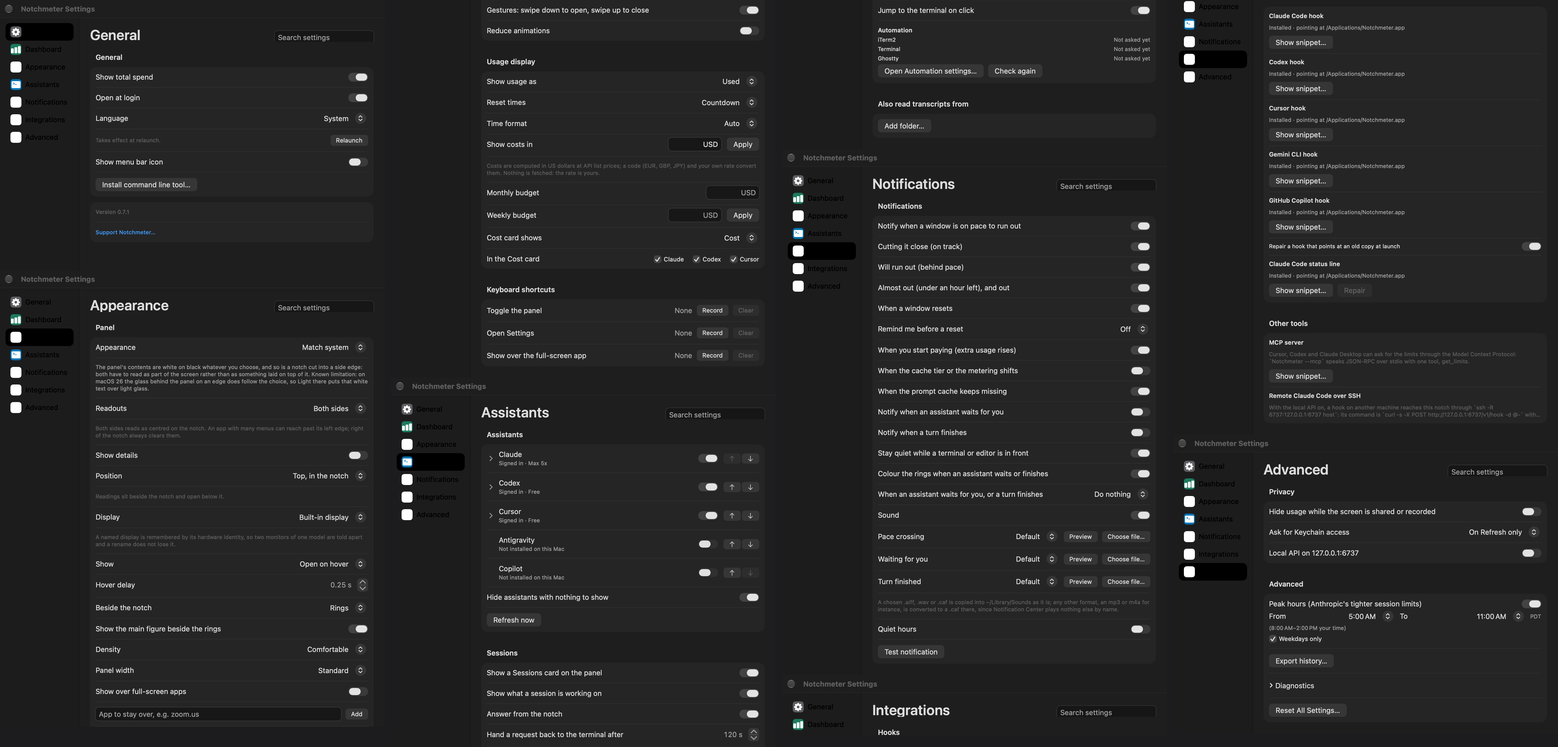
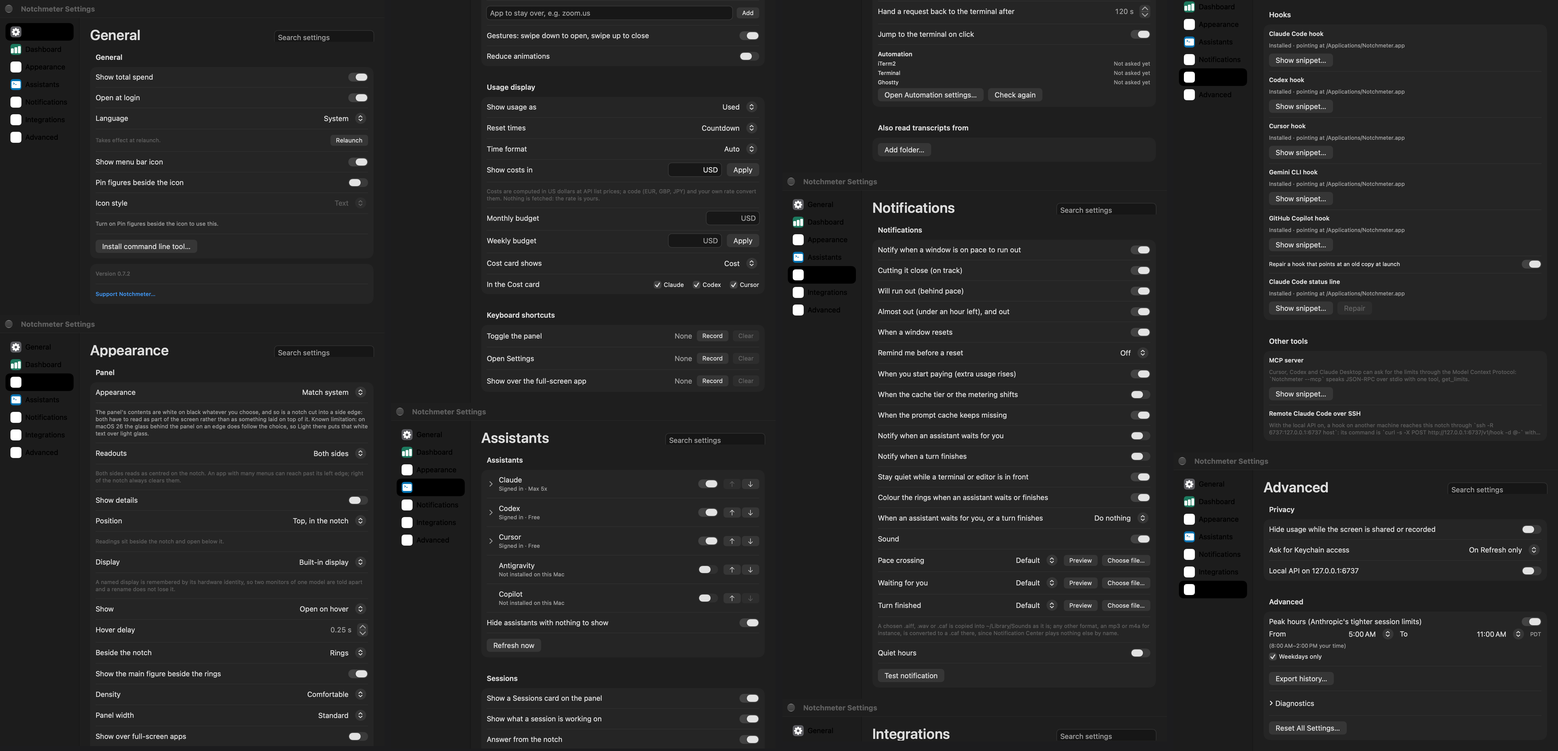
Notchmeter 0.7.2: the jump lands on the session's window (#70)
* Jump a session row to the right Cursor window, and pin the pictures' clock

A click on a Cursor or VS Code session only activated the app: with several
windows it could not say which, and from a background app on macOS 14 the
cooperative activate was often refused, so nothing visibly happened.

- The hook keeps the session's folder (Cursor's first workspace root, else
  cwd) as terminal_workspace, only when the terminal is Cursor or VS Code.
  The jump opens that folder with the running editor, which brings forward
  the window already showing it.
- The plain raise reopens the app through LaunchServices, as a Dock click
  does, instead of NSRunningApplication.activate.
- Cursor's own agent in Cursor shows one chip, not "Cursor Cursor".
- The demo fixtures turn peak hours off, so --render-assets no longer grows
  a peak-hours line when run during the window.

* Say what Cursor 3 does with a folder no editor window has open

* Notchmeter 0.7.2: the jump lands on the session's window

* Empty the fixtures' suite before a render, and reword a release note

A registered default is a fallback: a peakHoursTools value an earlier render
left in the render-assets suite would outrank it and bring the wall clock back
into the pictures. (CodeRabbit on #70.)

* Re-render the Settings picture from an empty suite

The committed one was drawn over values an earlier render left behind: the
menu bar icon was off, hiding two rows, and it said 0.7.1.

---------

diff --git a/Sources/Notchmeter/TerminalJump.swift b/Sources/Notchmeter/TerminalJump.swift
@@ -14,7 +14,8 @@ private let log = Logger(subsystem: "com.amirhackett.notchmeter", category: "jum
 /// (docs/permissions.md); Ghostty's AppleScript names a terminal's tty from 1.4.0 and only its working directory
 /// before, so its script tries the tty and settles for raising the app; kitty and WezTerm take a focus command on
 /// their own socket; a session inside tmux first selects its pane, then raises whichever terminal the most
-/// recent tmux client is attached from; anything else is raised as an app. A session with nothing to go on
+/// recent tmux client is attached from; Cursor and VS Code are handed the session's folder, which they answer by
+/// bringing forward the window that already has it open; anything else is raised as an app. A session with nothing to go on
 /// resolves to `none`, and a session on another Mac is never a jump at all.
 ///
 /// The executor runs one jump at a time on a serial queue, never launches an app that is not running (an
@@ -33,6 +34,9 @@ enum TerminalJump {
         /// A tmux pane to select on its socket, then the terminal the client is attached from, resolved again
         /// from the client's tty (`outer` is the reference with the pane's tty removed).
         case tmux(socket: String, pane: String?, outer: TerminalRef)
+        /// Open the session's folder with a running editor, which raises the window already showing it (Cursor 3
+        /// raises its Agents window for a folder no editor window has open).
+        case openFolder(String, bundleID: String)
         /// Bring the app to the front and nothing more.
         case activate(bundleID: String)
         case none
@@ -44,6 +48,7 @@ enum TerminalJump {
             case .appleScript: "applescript"
             case .command: "command"
             case .tmux: "tmux"
+            case .openFolder: "folder"
             case .activate: "activate"
             case .none: "none"
             }
@@ -81,6 +86,19 @@ enum TerminalJump {
         case "com.anthropic.claudefordesktop": return "Claude"
         default: return nil
         }
+    }
+
+    /// The editors that answer a folder they are asked to open by focusing the window that already has it, and
+    /// open a new one only when none does: VS Code and its forks. These are the only terminals a hook keeps the
+    /// session's folder for (`TerminalRef.workspace`).
+    static let folderEditors: Set<String> = ["com.todesktop.230313mzl4w4u92", "com.microsoft.VSCode", "com.microsoft.VSCodeInsiders"]
+
+    static func opensFolders(_ bundleID: String?) -> Bool { bundleID.map(folderEditors.contains) ?? false }
+
+    /// A folder a jump will open: an absolute path with no parent steps, since it came over the socket.
+    static func validWorkspace(_ path: String?) -> String? {
+        guard let path, path.hasPrefix("/"), !path.split(separator: "/").contains("..") else { return nil }
+        return path
     }
 
     /// Which terminal a reference names, by bundle id first and `TERM_PROGRAM` second.
@@ -126,6 +144,9 @@ enum TerminalJump {
                 return .command(executable: "wezterm", arguments: ["cli", "activate-pane", "--pane-id", pane], activate: BundleID.wezterm)
             }
             return .activate(bundleID: BundleID.wezterm)
+        }
+        if let bundleID = ref.bundleID, opensFolders(bundleID), let folder = validWorkspace(ref.workspace) {
+            return .openFolder(folder, bundleID: bundleID)
         }
         if let bundleID = ref.bundleID, !bundleID.isEmpty { return .activate(bundleID: bundleID) }
         return .none
@@ -353,6 +374,14 @@ enum TerminalJump {
                 let next = TerminalJump.resolve(outer)
                 if case .tmux = next { return false }
                 return run(next)
+            case .openFolder(let path, let bundleID):
+                var isDirectory: ObjCBool = false
+                guard let appURL = running(bundleID)?.bundleURL,
+                      FileManager.default.fileExists(atPath: path, isDirectory: &isDirectory), isDirectory.boolValue else { return activate(bundleID) }
+                let configuration = NSWorkspace.OpenConfiguration()
+                configuration.activates = true
+                NSWorkspace.shared.open([URL(fileURLWithPath: path, isDirectory: true)], withApplicationAt: appURL, configuration: configuration)
+                return true
             case .activate(let bundleID):
                 return activate(bundleID)
             case .none:
@@ -364,11 +393,16 @@ enum TerminalJump {
             NSRunningApplication.runningApplications(withBundleIdentifier: bundleID).first
         }
 
-        /// Raises a running app and never launches one. macOS 14 makes activation cooperative, so from an app that
-        /// is never frontmost this is best effort, which is why every path above it is preferred.
+        /// Raises a running app and never launches one. macOS 14 makes `NSRunningApplication.activate` cooperative,
+        /// and from an app that is never frontmost it was often refused outright, so the app is reopened through
+        /// LaunchServices instead, which is what a click on its Dock icon does and brings its windows forward.
+        /// Every path above it is still preferred: this raises the app, not the session's window.
         nonisolated private static func activate(_ bundleID: String) -> Bool {
-            guard let app = running(bundleID) else { return false }
-            return app.activate(options: [.activateAllWindows])
+            guard let app = running(bundleID), let appURL = app.bundleURL else { return false }
+            let configuration = NSWorkspace.OpenConfiguration()
+            configuration.activates = true
+            NSWorkspace.shared.openApplication(at: appURL, configuration: configuration)
+            return true
         }
 
         /// Where the terminals' own command-line tools live: the app bundles first, then the usual prefixes. The

diff --git a/Sources/Notchmeter/SessionTracker.swift b/Sources/Notchmeter/SessionTracker.swift
@@ -24,9 +24,13 @@ struct TerminalRef: Equatable, Sendable, Codable {
     var kittySocket: String?
     /// Whether `GHOSTTY_RESOURCES_DIR` was set.
     var ghostty = false
+    /// The folder the session runs in, kept only when the terminal is an editor that brings forward the window
+    /// already showing a folder it is asked to open (`TerminalJump.opensFolders`): the one way to tell two of its
+    /// windows apart without reading a title.
+    var workspace: String?
 
     init(program: String? = nil, bundleID: String? = nil, tty: String? = nil, sessionID: String? = nil, focusURL: String? = nil,
-         tmux: String? = nil, tmuxPane: String? = nil, kittySocket: String? = nil, ghostty: Bool = false) {
+         tmux: String? = nil, tmuxPane: String? = nil, kittySocket: String? = nil, ghostty: Bool = false, workspace: String? = nil) {
         self.program = program
         self.bundleID = bundleID
         self.tty = tty
@@ -36,12 +40,13 @@ struct TerminalRef: Equatable, Sendable, Codable {
         self.tmuxPane = tmuxPane
         self.kittySocket = kittySocket
         self.ghostty = ghostty
+        self.workspace = workspace
     }
 
     /// True when nothing at all was read.
     var isEmpty: Bool {
         program == nil && bundleID == nil && tty == nil && sessionID == nil && focusURL == nil && tmux == nil && tmuxPane == nil
-            && kittySocket == nil && !ghostty
+            && kittySocket == nil && !ghostty && workspace == nil
     }
 
     /// This reference with every field the newer one carries taken from it; a field the newer one lacks is kept,
@@ -49,7 +54,8 @@ struct TerminalRef: Equatable, Sendable, Codable {
     func merging(_ newer: TerminalRef) -> TerminalRef {
         TerminalRef(program: newer.program ?? program, bundleID: newer.bundleID ?? bundleID, tty: newer.tty ?? tty,
                     sessionID: newer.sessionID ?? sessionID, focusURL: newer.focusURL ?? focusURL, tmux: newer.tmux ?? tmux,
-                    tmuxPane: newer.tmuxPane ?? tmuxPane, kittySocket: newer.kittySocket ?? kittySocket, ghostty: newer.ghostty || ghostty)
+                    tmuxPane: newer.tmuxPane ?? tmuxPane, kittySocket: newer.kittySocket ?? kittySocket, ghostty: newer.ghostty || ghostty,
+                    workspace: newer.workspace ?? workspace)
     }
 }
 

diff --git a/Sources/Notchmeter/Hook.swift b/Sources/Notchmeter/Hook.swift
@@ -56,6 +56,7 @@ enum Hook {
     static let terminalTmuxPaneKey = "terminal_tmux_pane"
     static let terminalKittySocketKey = "terminal_kitty_socket"
     static let terminalGhosttyKey = "terminal_ghostty"
+    static let terminalWorkspaceKey = "terminal_workspace"
 
     /// How long the command waits for the app's answer to a deciding event. The app's own hold
     /// (Preferences.promptHoldSeconds, two minutes by default) is what ends the wait in practice; this is the
@@ -343,6 +344,7 @@ enum Hook {
         let payload = readPayload()
         guard var message = message(from: payload, tool: tool(in: arguments), event: event(in: arguments)) else { exit(0) }
         message.terminal = TerminalIdentity.capture()
+        if TerminalJump.opensFolders(message.terminal?.bundleID) { message.terminal?.workspace = folder(in: payload) }
         if message.request != nil {
             if case .sent(let reply?) = HookSocket.send(.hook, message.userInfo, timeout: decisionWait),
                let output = Answer.output(event: message.event, reply: reply, payload: payload) {
@@ -352,6 +354,15 @@ enum Hook {
             HookSocket.send(.hook, message.userInfo)
         }
         exit(0)
+    }
+
+    /// The folder the session runs in, for a jump back to the editor window showing it (`TerminalRef.workspace`):
+    /// Cursor's first workspace root, else the `cwd` every other assistant sends. Read only when the terminal is
+    /// such an editor, and sent only as that field.
+    static func folder(in payload: Data) -> String? {
+        guard let object = try? JSONSerialization.jsonObject(with: payload) as? [String: Any] else { return nil }
+        let root = (object["workspace_roots"] as? [String])?.first { !$0.isEmpty } ?? (object["cwd"] as? String)
+        return TerminalJump.validWorkspace(root)
     }
 
     /// The payload, read within the 25 ms and 64 KB the command has always allowed itself; a payload that filled

diff --git a/Tests/NotchmeterTests/TerminalJumpTests.swift b/Tests/NotchmeterTests/TerminalJumpTests.swift
@@ -106,6 +106,22 @@ import Testing
         #expect(TerminalJump.resolve(TerminalRef(program: "unknown-terminal")) == .none)
     }
 
+    /// Two Cursor windows are told apart by the folder each has open: the editor is handed the session's folder
+    /// and brings forward the window already showing it. Without a folder it is only raised.
+    @Test func anEditorIsHandedTheSessionsFolderAndElseRaised() {
+        let cursor = "com.todesktop.230313mzl4w4u92"
+        #expect(TerminalJump.resolve(TerminalRef(program: "vscode", bundleID: cursor, workspace: "/Users/me/enrollhere"))
+                == .openFolder("/Users/me/enrollhere", bundleID: cursor))
+        #expect(TerminalJump.resolve(TerminalRef(bundleID: "com.microsoft.VSCode", workspace: "/Users/me/x")) == .openFolder("/Users/me/x", bundleID: "com.microsoft.VSCode"))
+        #expect(TerminalJump.resolve(TerminalRef(bundleID: cursor, workspace: "relative/path")) == .activate(bundleID: cursor), "only an absolute path is opened")
+        #expect(TerminalJump.resolve(TerminalRef(bundleID: cursor, workspace: "/Users/me/../../etc")) == .activate(bundleID: cursor))
+        #expect(TerminalJump.resolve(TerminalRef(bundleID: "io.alacritty", workspace: "/Users/me/x")) == .activate(bundleID: "io.alacritty"),
+                "a terminal that does not route folders to windows is only raised")
+        #expect(TerminalJump.opensFolders(cursor))
+        #expect(!TerminalJump.opensFolders("com.googlecode.iterm2"))
+        #expect(!TerminalJump.opensFolders(nil))
+    }
+
     @Test func onlyAWellFormedTTYGoesInsideAScript() {
         #expect(TerminalJump.validTTY("/dev/ttys003") == "/dev/ttys003")
         #expect(TerminalJump.validTTY("/dev/ttys0031") == "/dev/ttys0031")

diff --git a/Tests/NotchmeterTests/TerminalIdentityTests.swift b/Tests/NotchmeterTests/TerminalIdentityTests.swift
@@ -128,6 +128,13 @@ import Testing
         #expect(Hook.Message(userInfo: ["hook_event_name": "Stop", "terminal_focus_url": "javascript:x"])?.terminal == nil,
                 "a focus URL is checked on the way in as well as on the way out")
         #expect(Hook.Message(userInfo: ["hook_event_name": "Stop", "terminal_ghostty": "1"])?.terminal == TerminalRef(ghostty: true))
+        #expect(Hook.Message(userInfo: ["hook_event_name": "Stop", "terminal_bundle": "com.microsoft.VSCode", "terminal_workspace": "/Users/me/x"])?.terminal
+                == TerminalRef(bundleID: "com.microsoft.VSCode", workspace: "/Users/me/x"))
+        #expect(Hook.Message(userInfo: ["hook_event_name": "Stop", "terminal_bundle": "com.microsoft.VSCode", "terminal_workspace": "x/../y"])?.terminal
+                == TerminalRef(bundleID: "com.microsoft.VSCode"), "a folder is checked on the way in as well")
+        #expect(Hook.folder(in: Data(#"{"workspace_roots":["","/Users/me/a"],"cwd":"/Users/me/b"}"#.utf8)) == "/Users/me/a", "Cursor's root outranks cwd")
+        #expect(Hook.folder(in: Data(#"{"cwd":"/Users/me/b"}"#.utf8)) == "/Users/me/b")
+        #expect(Hook.folder(in: Data(#"{"cwd":"b"}"#.utf8)) == nil)
 
         let older = TerminalRef(program: "iTerm.app", bundleID: "com.googlecode.iterm2", tty: "/dev/ttys001", sessionID: "w0t0p0:A")
         let newer = TerminalRef(program: nil, bundleID: nil, tty: "/dev/ttys002", sessionID: nil)

diff --git a/Sources/Notchmeter/DemoFixtures.swift b/Sources/Notchmeter/DemoFixtures.swift
@@ -30,9 +30,13 @@ enum DemoFixtures {
     @MainActor
     static func store(now: Date = Date(), moment: Moment = .waiting) -> (store: UsageStore, prefs: Preferences) {
         // A suite nothing writes to. The registration domain lives in memory only, so the countdown style the
-        // pictures rely on is neither read from nor written to the user's own preferences.
+        // pictures rely on is neither read from nor written to the user's own preferences. Peak hours are off: the
+        // window is read against the wall clock, so a render during it grew an advice line and a footer word that
+        // one an hour later did not. The suite is emptied first, since a registered default is only a fallback and
+        // a value an earlier render left behind would outrank it.
+        UserDefaults.standard.removePersistentDomain(forName: suiteName)
         let defaults = UserDefaults(suiteName: suiteName) ?? .standard
-        defaults.register(defaults: ["resetDisplay": ResetDisplay.countdown.rawValue])
+        defaults.register(defaults: ["resetDisplay": ResetDisplay.countdown.rawValue, "peakHoursTools": [String]()])
         let prefs = Preferences(defaults: defaults)
         let readings = readings(now: now)
         let store = UsageStore(prefs: prefs, providers: readings.map { FixtureProvider(reading: $0) },

diff --git a/Sources/Notchmeter/Hook+Decision.swift b/Sources/Notchmeter/Hook+Decision.swift
@@ -203,6 +203,7 @@ extension Hook {
         if let tmuxPane = terminal.tmuxPane { info[terminalTmuxPaneKey] = tmuxPane }
         if let kittySocket = terminal.kittySocket { info[terminalKittySocketKey] = kittySocket }
         if terminal.ghostty { info[terminalGhosttyKey] = "1" }
+        if let workspace = terminal.workspace { info[terminalWorkspaceKey] = workspace }
         return info
     }
 
@@ -213,7 +214,8 @@ extension Hook {
         let terminal = TerminalRef(program: field(terminalProgramKey), bundleID: field(terminalBundleKey), tty: field(terminalTTYKey),
                                    sessionID: field(terminalSessionKey), focusURL: field(terminalFocusURLKey).flatMap(TerminalIdentity.focusURL),
                                    tmux: field(terminalTmuxKey), tmuxPane: field(terminalTmuxPaneKey), kittySocket: field(terminalKittySocketKey),
-                                   ghostty: field(terminalGhosttyKey) == "1")
+                                   ghostty: field(terminalGhosttyKey) == "1",
+                                   workspace: field(terminalWorkspaceKey).flatMap(TerminalJump.validWorkspace))
         return terminal.isEmpty ? nil : terminal
     }
 

diff --git a/Sources/Notchmeter/SessionsCard.swift b/Sources/Notchmeter/SessionsCard.swift
@@ -49,7 +49,8 @@ struct SessionsCard: View {
             let canJump = jump && session.host == nil && session.terminal.map { TerminalJump.resolve($0) != .none } == true
             let note: Row.Note? = session.pending != nil ? .waitingForAnswer : finished ? (canJump ? .doneJump : .justFinished) : nil
             var chips = [session.tool.displayName]
-            if let terminal = TerminalJump.displayName(bundleID: session.terminal?.bundleID) { chips.append(terminal) }
+            // Cursor's own agent runs in Cursor: one chip says it, not two.
+            if let terminal = TerminalJump.displayName(bundleID: session.terminal?.bundleID), terminal != chips[0] { chips.append(terminal) }
             if let host = session.host { chips.append("@\(host)") }
             return Row(id: session.id, tool: session.tool, title: title(of: session, hideTitles: hideTitles), chips: chips,
                        since: session.turnStarted ?? session.started, status: status, note: note, canJump: canJump)

diff --git a/Tests/NotchmeterTests/PromptCardTests.swift b/Tests/NotchmeterTests/PromptCardTests.swift
@@ -126,6 +126,8 @@ import Testing
         let noTerminal = SessionsCard.rows([make("t", state: .working(since: t0))], hideTitles: false, jump: true, now: now).rows[0]
         #expect(noTerminal.canJump == false, "a hook that named no terminal gives the row nowhere to go")
         #expect(noTerminal.chips == ["Claude"])
+        let inCursor = make("c", tool: .cursor, terminal: TerminalRef(bundleID: "com.todesktop.230313mzl4w4u92"), state: .working(since: t0))
+        #expect(SessionsCard.rows([inCursor], hideTitles: false, jump: true, now: now).rows[0].chips == ["Cursor"], "Cursor's agent in Cursor is one chip, not two")
     }
 
     /// A reference is not a jump: `TERM_PROGRAM=vscode` with no bundle id and no app ancestor is a reference the

diff --git a/Tests/NotchmeterTests/DemoFixturesTests.swift b/Tests/NotchmeterTests/DemoFixturesTests.swift
@@ -51,6 +51,13 @@ import Testing
         }
     }
 
+    /// Peak hours are read against the wall clock, so the pictures render with them off, whatever an earlier
+    /// render left in the fixtures' suite.
+    @MainActor @Test func peakHoursAreOffEvenOverAStaleSuite() {
+        UserDefaults(suiteName: DemoFixtures.suiteName)?.set(["claude"], forKey: "peakHoursTools")
+        #expect(DemoFixtures.store().prefs.peakHoursTools.isEmpty)
+    }
+
     @MainActor @Test func seedsAStoreWithoutAProviderRead() {
         let now = Date()
         let (store, prefs) = DemoFixtures.store(now: now)

diff --git a/docs/hooks.md b/docs/hooks.md
@@ -35,7 +35,7 @@ The command is `Notchmeter --hook` for Claude Code, `--hook --tool codex` for Co
 | `awaitsDecision`, `requestID` | on a deciding event only: `true`, and a UUID the command generated for this one request. The app answers only a request it is showing under that id, and only from its own buttons ([Answering from the notch](#answering-from-the-notch)). Absent on every other event, whose line is byte for byte what it was |
 | `toolName`, `toolSummary`, `toolDetail`, `suggestions` | on a `PermissionRequest` that names its tool (Claude Code, Codex, Copilot's PascalCase event): the tool's name; one line saying what it wants to do — a shell command's first line, a file tool's path (`Edit`, `Write`, `Read`, `NotebookEdit`), an MCP tool's name alone, or for anything else whichever of `command`, a path, `url`, `pattern`, `query` or `description` it carries, else the tool's name; a bounded excerpt of at most 4 KB — the whole shell command, an `Edit`'s old and new text as `- ` and `+ ` lines, a `Write`'s first forty lines with `… (N more lines)`, nothing for a read or an MCP call; and the `ruleContent` strings of `permission_suggestions`, nothing else of them. The raw `tool_input` never leaves the command: it is reduced to these before the line is written, and read once more only to echo it back inside an answer to a question |
 | `questions` | on a `PreToolUse` whose tool is `AskUserQuestion`: each question's text, `header`, `options` (each a `label` and an optional `description`) and `multiSelect`, as Claude Code documents them |
-| `terminal_program`, `terminal_bundle`, `terminal_tty`, `terminal_session`, `terminal_focus_url`, `terminal_tmux`, `terminal_tmux_pane`, `terminal_kitty_socket`, `terminal_ghostty` | on every local event, each only when the hook could read it, from the hook process's own environment and ancestry ([TerminalIdentity.swift](../Sources/Notchmeter/TerminalIdentity.swift)): `TERM_PROGRAM`; `__CFBundleIdentifier`, else the bundle id of the nearest ancestor process LaunchServices knows as an app (the walk goes up through `sh` and the assistant to the terminal, at most eight hops, by `proc_pidinfo`); `/dev/` plus the controlling tty of the nearest ancestor that has one (the hook itself runs without one); `ITERM_SESSION_ID`, else `TERM_SESSION_ID`, else `WEZTERM_PANE`, else `KITTY_WINDOW_ID`, else `ZELLIJ_PANE_ID`; `WARP_FOCUS_URL` only when it is shaped `scheme://session/<32 hex digits>`; `TMUX` and `TMUX_PANE`; `KITTY_LISTEN_ON`; `"1"` when `GHOSTTY_RESOURCES_DIR` is set. No window is looked at and no title is read: these are what the terminal itself put in the environment of every process under it, and what the kernel keeps about those processes. Never on a remote post (the ids name windows on another machine), never in the report, the local API, `--json`, MCP, the log or the oracle |
+| `terminal_program`, `terminal_bundle`, `terminal_tty`, `terminal_session`, `terminal_focus_url`, `terminal_tmux`, `terminal_tmux_pane`, `terminal_kitty_socket`, `terminal_ghostty`, `terminal_workspace` | on every local event, each only when the hook could read it, from the hook process's own environment and ancestry ([TerminalIdentity.swift](../Sources/Notchmeter/TerminalIdentity.swift)): `TERM_PROGRAM`; `__CFBundleIdentifier`, else the bundle id of the nearest ancestor process LaunchServices knows as an app (the walk goes up through `sh` and the assistant to the terminal, at most eight hops, by `proc_pidinfo`); `/dev/` plus the controlling tty of the nearest ancestor that has one (the hook itself runs without one); `ITERM_SESSION_ID`, else `TERM_SESSION_ID`, else `WEZTERM_PANE`, else `KITTY_WINDOW_ID`, else `ZELLIJ_PANE_ID`; `WARP_FOCUS_URL` only when it is shaped `scheme://session/<32 hex digits>`; `TMUX` and `TMUX_PANE`; `KITTY_LISTEN_ON`; `"1"` when `GHOSTTY_RESOURCES_DIR` is set; and only when that app is Cursor or VS Code, the session's folder (Cursor's first `workspace_roots` entry, else the payload's `cwd`, absolute and with no `..`), the one thing that tells two of the editor's windows apart. No window is looked at and no title is read: these are what the terminal itself put in the environment of every process under it, and what the kernel keeps about those processes. Never on a remote post (the ids name windows on another machine), never in the report, the local API, `--json`, MCP, the log or the oracle |
 
 Nothing else leaves the payload: not the transcript path, the working directory beyond one folder name (its own, or the repository's when it is a git worktree, so a worktree cut from `/Users/me/secret-client` sends `secret-client` and not the worktree folder's name), the prompt beyond its first line (and that only while the setting is on), the raw tool input, an MCP tool's arguments, or the notification text. To find that name the command stats `.git` in `cwd` and in each of its parents and reads the first line of a `.git` file, with FileManager and no git process; the branch comes from `cwd`'s own `.git/HEAD`; it reads nothing else on disk. The unified log and the oracle record the event's name and, for a deciding event, the word `permission` or `question`, never the title, the summary, the detail, a question or a terminal id; the report file, `/v1/limits`, `--json` and MCP carry none of them either ([SessionTrackingRequests](../Tests/NotchmeterTests/SessionTrackerTests.swift) and [StoreDecisions](../Tests/NotchmeterTests/HookDecisionTests.swift) pin both). For every event but the two deciding ones the command prints nothing, so the assistant sees no decision and proceeds as normal, and it is back in milliseconds. Measured on an M5 Pro with a warm binary, 0.6.0: about 7 ms when standard input is empty or `/dev/null` (nothing is sent), about 9 ms with a payload and no app listening (the connect is refused and the command moves on), 31 ms when standard input is a pipe nobody writes to, because the read gives up after 25 ms rather than block (an empty or absent payload is not an error), and about 10 ms with a payload and the app listening, the app's check of the peer included. Measured the same way for 0.7.0 (an M5 Pro, macOS 27, the release binary, the mean of twenty runs each), with the terminal capture now on every event: about 9 ms when standard input is empty (nothing is sent, but the environment and the ancestry are still read), about 13.5 ms with a `SessionStart` payload whether no app is listening or the app's socket is there, and the same 13.6 ms for a `PermissionRequest` with no app listening, which prints nothing and returns at once; about 15 ms when the hook's environment names no app at all (`env -i`), because the walk then asks LaunchServices about each ancestor. So the terminal capture costs about 4 ms per event, all of it in `proc_pidinfo` and the LaunchServices lookup, and the payload's own summary is not measurable beside it. Since 0.6.0 the listening case is a wait rather than a fire-and-forget: the command does not return until the app has checked it, read the line and hung up, and the wait is capped at one second (`HookSocket.send`'s `timeout`), so an app that is stopped or starved costs a hook at most a second, inside every timeout the snippets below set (Claude Code 5 s; Codex 5 s, and 3 s on `SessionEnd` and `Interrupt`; Gemini CLI 5000 ms; Copilot 5 s), and the event is dropped rather than queued. A deciding event is the one exception, and its wait is the point: the command holds the socket for as long as the app holds the request (up to 600 s, `Hook.decisionWait`, which its entries' `timeout` matches), and the app's own hold ends it long before that. The first launch after a rebuild can take a couple of hundred milliseconds more while dyld warms its cache. It never touches the network or the Keychain. If Notchmeter is not running, there is no socket to write to and nothing happens. The code is [Hook.swift](../Sources/Notchmeter/Hook.swift) and [Hook+Decision.swift](../Sources/Notchmeter/Hook+Decision.swift).
 
@@ -57,7 +57,7 @@ What this changes about the threat model, and what it does not. Before 0.7.0 a l
 
 ### Jumping to the terminal
 
-A click on a Sessions-card row (*Jump to the terminal on click*, on by default) brings the session's terminal tab or pane forward, from the `terminal_*` fields the session's own hook reported and nothing else ([TerminalJump.swift](../Sources/Notchmeter/TerminalJump.swift)): no window is searched, no title is read, and the Accessibility API is not used. `TerminalJump.resolve` is pure and pinned by tests, one strategy per reference in a fixed order: Warp's focus URL, opened with LaunchServices against the running Warp (any channel) and needing no permission; iTerm2 by the session's `unique id` (the GUID in `ITERM_SESSION_ID`), else by the tab's `tty`; Terminal.app by the tab's `tty` (its `TERM_SESSION_ID` is not scriptable); Ghostty by the terminal's `tty`, a property 1.4.0 adds, inside a `try` so an older build settles for the app coming forward; kitty by `kitten @ --to <KITTY_LISTEN_ON> focus-window --match id:<KITTY_WINDOW_ID>` when remote control is on, else the app; WezTerm by `wezterm cli activate-pane --pane-id <WEZTERM_PANE>` then the app; a session inside tmux by `tmux -S <socket> select-window`/`select-pane` on the pane, then whichever terminal the tmux client with the latest activity is attached from, found from that client's tty (the pane's own pty is what the hook captured, and no tab carries it); anything else, VS Code's and Cursor's integrated terminals included, by raising the app named by its bundle id. A tty goes into a script only in the shape `/dev/ttysNNN`, an id only as hex, a window or pane id only as a number: every value came over the socket. One jump runs at a time on its own queue, a terminal that is not running is never launched (an AppleScript `tell` would launch it), the app deactivates itself afterwards so the panel does not stay in front, and a jump that did not land is logged (`category == "jump"`) and recorded by the oracle (`jump` with `strategy` and `ok`) rather than shown. The iTerm2, Terminal and Ghostty paths send Apple events, which the hardened-runtime release build is entitled to (`com.apple.security.automation.apple-events`) and macOS asks you about once per target app the first time; *Settings › Assistants › Sessions* shows where that grant stands for each of the three and opens Privacy & Security › Automation ([docs/permissions.md](permissions.md#automation-only-for-the-jump-to-a-terminal)). Activation itself is best effort on macOS 14 and later, which makes it cooperative, so every path that has the terminal come forward by itself is preferred to the last one.
+A click on a Sessions-card row (*Jump to the terminal on click*, on by default) brings the session's terminal tab or pane forward, from the `terminal_*` fields the session's own hook reported and nothing else ([TerminalJump.swift](../Sources/Notchmeter/TerminalJump.swift)): no window is searched, no title is read, and the Accessibility API is not used. `TerminalJump.resolve` is pure and pinned by tests, one strategy per reference in a fixed order: Warp's focus URL, opened with LaunchServices against the running Warp (any channel) and needing no permission; iTerm2 by the session's `unique id` (the GUID in `ITERM_SESSION_ID`), else by the tab's `tty`; Terminal.app by the tab's `tty` (its `TERM_SESSION_ID` is not scriptable); Ghostty by the terminal's `tty`, a property 1.4.0 adds, inside a `try` so an older build settles for the app coming forward; kitty by `kitten @ --to <KITTY_LISTEN_ON> focus-window --match id:<KITTY_WINDOW_ID>` when remote control is on, else the app; WezTerm by `wezterm cli activate-pane --pane-id <WEZTERM_PANE>` then the app; a session inside tmux by `tmux -S <socket> select-window`/`select-pane` on the pane, then whichever terminal the tmux client with the latest activity is attached from, found from that client's tty (the pane's own pty is what the hook captured, and no tab carries it); Cursor and VS Code (their own agents and their integrated terminals alike) by opening the session's folder (`terminal_workspace`) with the running editor through LaunchServices, which it answers by bringing forward the window that already has that folder open, so with several windows the click lands on the right one (Cursor 3 sends a folder no editor window has open to its Agents window instead, which comes forward; it offers no way from outside to pick one local conversation in there, its `cursor://anysphere.cursor-deeplink/agent?id=` link opening cloud agents only); anything else, and an editor session whose hook sent no folder, by reopening the app named by its bundle id through LaunchServices, as a click on its Dock icon does. A tty goes into a script only in the shape `/dev/ttysNNN`, an id only as hex, a window or pane id only as a number: every value came over the socket. One jump runs at a time on its own queue, a terminal that is not running is never launched (an AppleScript `tell` would launch it), the app deactivates itself afterwards so the panel does not stay in front, and a jump that did not land is logged (`category == "jump"`) and recorded by the oracle (`jump` with `strategy` and `ok`) rather than shown. The iTerm2, Terminal and Ghostty paths send Apple events, which the hardened-runtime release build is entitled to (`com.apple.security.automation.apple-events`) and macOS asks you about once per target app the first time; *Settings › Assistants › Sessions* shows where that grant stands for each of the three and opens Privacy & Security › Automation ([docs/permissions.md](permissions.md#automation-only-for-the-jump-to-a-terminal)). Activation itself is best effort on macOS 14 and later, which makes it cooperative, so every path that has the terminal come forward by itself is preferred to the last one.
 
 ## Installing it
 

diff --git a/docs/release-notes/0.7.2.md b/docs/release-notes/0.7.2.md
@@ -1,0 +1,13 @@
+## Notchmeter 0.7.2
+
+### Clicking a session takes you to it
+
+- A click on a Cursor or VS Code session in the Sessions card brings forward the window that session runs in, even with several windows open. Before, it only asked the app to come forward, which macOS often ignored and which could never pick a window.
+- A session in Cursor's Agents window brings that window forward. Cursor offers no way for another app to open one particular local conversation in it, so the click stops at the window.
+- For a terminal where Notchmeter can't select the session's tab, the click still brings the terminal forward, the way clicking its Dock icon does.
+- A Cursor session running in Cursor shows one "Cursor" chip, not two.
+
+### Behind it
+
+- The hook sends the session's folder to the app only when the session runs in Cursor or VS Code, since that folder is what tells their windows apart. It stays on your Mac: never on a remote post, and never in the report, the local API or the log. docs/hooks.md lists it.
+- The README's pictures render the same at any hour: the fixtures no longer pick up peak hours from the wall clock.
